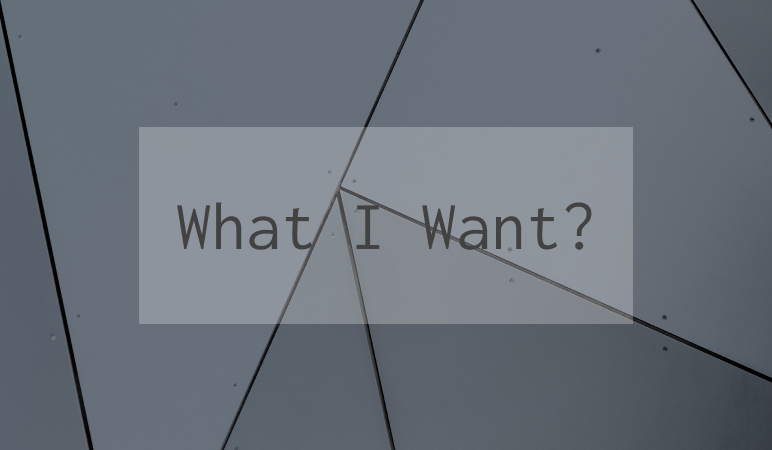
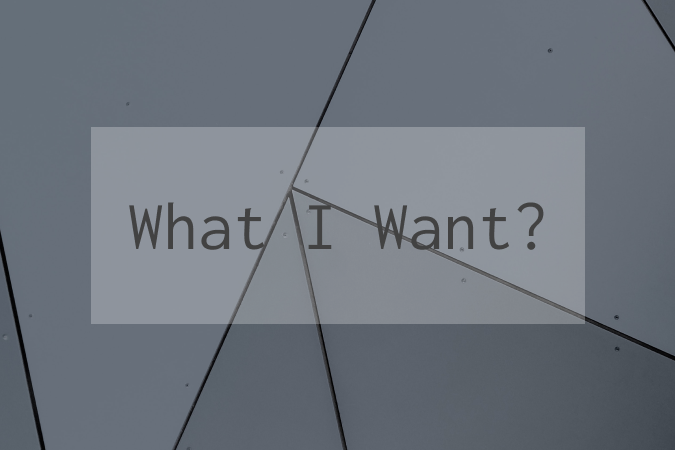
fixing mobile

diff --git a/src/data.js b/src/data.js
@@ -43,7 +43,7 @@ export const projects = [
     {
       className: "imageone__img",
       alt: "Haley Moses full-stack developer portfolio website seeking employment",
-      img: "https://live.staticflickr.com/65535/52010246990_e81c3828dc_z.jpg",
+      img: "https://live.staticflickr.com/65535/52428708880_536f2cc12f_m.jpg",
       message: "I'm a Full-Stack Developer and Mechanical Engineer.",
       opacity: 1,
       id: 's1',
@@ -51,7 +51,7 @@ export const projects = [
     {
       className: "imagetwo__img",
       alt: "Haley Moses has a Mechanical Engineering Degree",
-      img: "https://live.staticflickr.com/65535/52101125909_d670bb23bd_n.jpg",
+      img: "https://live.staticflickr.com/65535/52427774152_71889c016c_m.jpg",
       message: `I have a Bachelor's of Science in Mechanical Engineering from the University of Texas at San Antonio.`,
       opacity: 1,
       id: 's2',
@@ -67,7 +67,7 @@ export const projects = [
     {
       className: "imagefour__img",
       alt: "Haley Moses is a Capybara Fanatic",
-      img: "https://live.staticflickr.com/65535/52127332851_fe00b0eaca_n.jpg",
+      img: "https://live.staticflickr.com/65535/52428265986_0b7f1f0dc9_m.jpg",
       message: `My favorite animal is the Capybara, the world's largest Rodent.`,
       opacity: .3,
       func: 'handleClickLeft',
@@ -77,7 +77,7 @@ export const projects = [
     {
       className: "imagefive__img",
       alt: "What I'm interested in.",
-      img: 'https://live.staticflickr.com/65535/52110617287_14ef38d9b0_z.jpg',
+      img: "https://live.staticflickr.com/65535/52428725005_ee3c99215e_m.jpg",
       message: `I want to find work in the Tech Industry where I can use my talents to solve problems, grow, and learn.`,
       opacity: .3,
       func: 'handleClickRight',

diff --git a/src/components/about/Carouselleftright.js b/src/components/about/Carouselleftright.js
@@ -21,7 +21,7 @@ const Carouselleftright = () => {
 
     return (
         (width<800) ?
-        (<div className='imageoutercontainer' style={{ maxWidth: 388, marginLeft: 'auto', marginRight: 'auto', marginTop: 64 }}>
+        (<div className='imageoutercontainer' style={{ maxWidth: 387.5, marginLeft: 'auto', marginRight: 'auto', marginTop: 64 }}>
 <Carousel
     show={1}
     infiniteLoop={true}>
@@ -51,7 +51,7 @@ const Carouselleftright = () => {
 
  </div>
 ) : 
-        (<div className='imageoutercontainer' style={{ maxWidth: 776, marginLeft: 'auto', marginRight: 'auto', marginTop: 64 }}>
+        (<div className='imageoutercontainer' style={{ maxWidth: 775, marginLeft: 'auto', marginRight: 'auto', marginTop: 64 }}>
         <Carousel
             show={2}
             infiniteLoop={true}>

diff --git a/src/components/about/About.scss b/src/components/about/About.scss
@@ -829,7 +829,6 @@ and (max-width: 1490px) {
     .imageoutercontainer {
         flex-direction: column;
         order: 2 !important;
-        width: auto;
         min-height: 30vh;
         margin-bottom: 6rem;
         column-gap: 3rem;
@@ -838,7 +837,6 @@ and (max-width: 1490px) {
     }
  
     .imageoutercontainer img {
-        width: 388px !important;
         height: auto;
         position: relative;
         background-color:  rgba(94, 84, 142, 1);
